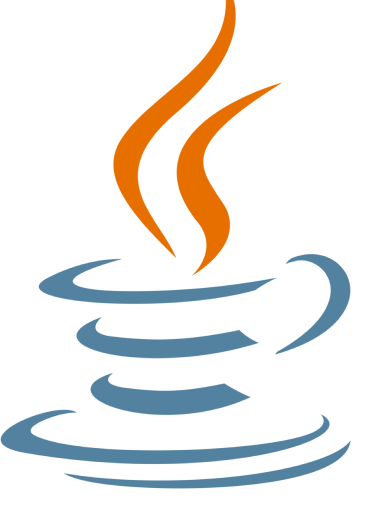
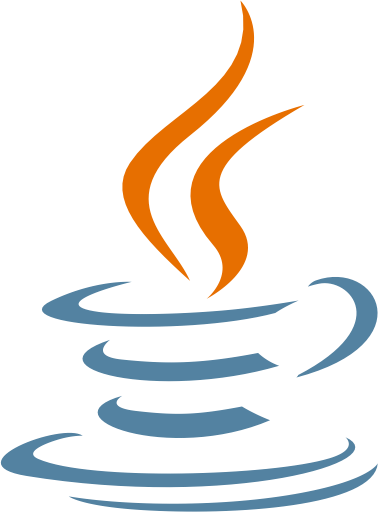
changing register page css

Changed region(s): [[0.0, 0.0, 1.0, 1.0], [0.7353, 0.4688, 1.0, 0.75], [0.7647, 0.1875, 0.7941, 0.2188]]

diff --git a/src/webapp/blog/src/components/Mainpage/index.js b/src/webapp/blog/src/components/Mainpage/index.js
@@ -1,5 +1,6 @@
 import './Mainpage.css'
 import NavBar from '../NavBar'
+import NavBarAuthenticated from '../NavBarAuthenticated'
 import Leftpanel from '../Leftpanel'
 import Post from '../Post'
 import data from '../Post/data.json'
@@ -7,10 +8,10 @@ import data from '../Post/data.json'
 const Mainpage = () => {
     return (
         <>
-            <NavBar/>
+            <NavBar />
             <div className='leftpanel_post'>
-                <Leftpanel/>
-                <Post className='post_mainpage' data={data}/>
+                <Leftpanel />
+                <Post className='post_mainpage' data={data} />
             </div>
         </>
     )

diff --git a/src/webapp/blog/src/components/RegisterForm/RegisterForm.css b/src/webapp/blog/src/components/RegisterForm/RegisterForm.css
@@ -2,7 +2,6 @@ body{
     background-color: #050214
 }
 
-
 .form-content-right {
     display: flex;
     justify-content: flex-end;
@@ -12,16 +11,14 @@ body{
 }
 
 #tamanhojava{
-    width: 374px;
-    height: 518px;
+    width: 418px;
+    height: 590px;
     margin-right: 200px;
-    margin-top: 30px;
+    margin-top: 25px;
 }
-
 
 .here{
     color: #2148C0;
-
 }
 
 .signup{
@@ -37,13 +34,11 @@ body{
     margin-top: 30px;
 }
 
-
 .form-inputs {
     color: #fff;
     margin-bottom: 40px;
     
 }
-
 
 .form-input {
     color: #fff;

diff --git a/src/webapp/blog/src/components/RegisterForm/index.js b/src/webapp/blog/src/components/RegisterForm/index.js
@@ -40,7 +40,7 @@ function doRegister() {
           </h1>
           <h2 className='signup'>
             If you already have an account,
-          You can  Login <Link className='here' to='/login'>here !</Link>
+          You can  Login <Link className='here' to='/login' style={{ textDecoration: 'none' }}>here !</Link >
           </h2>
 
           <div className='form-inputs'>
